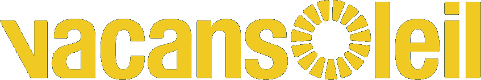
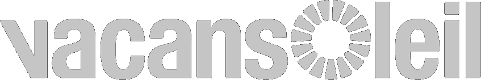
Moved Vacansoleil to silver sponsor

diff --git a/themes/pygrunn/templates/sponsors.html b/themes/pygrunn/templates/sponsors.html
@@ -1,15 +1,10 @@
 <div id="fullscreen" class="fullscreen" style="background-image: url('/theme/images/logos/top_artwork_{{ PYGRUNN_YEAR }}.png'); background-position: 100% 80px;">
     <div class="sponsor-images uk-hidden-small">
         <div class="uk-container uk-container-center">
-            <div class="uk-grid uk-grid-small uk-grid-width-1-3 uk-grid-width-medium-1-3 uk-text-center">
+            <div class="uk-grid uk-grid-small uk-grid-width-1-4 uk-grid-width-medium-1-4 uk-text-center">
                 <div>
                     <a class="media2b-logo sponsor-img uk-display-inline-block uk-vertical-align-middle text-hidden" href="http://www.media2b.net" title="Media2B - Software" target="_blank">
                         <span>Media2B</span>
-                    </a>
-                </div>
-                <div>
-                    <a class="vacansoleil-logo sponsor-img uk-display-inline-block uk-vertical-align-middle text-hidden" href="http://www.vacansoleil.nl" target="_blank">
-                        <span>Vacansoleil</span>
                     </a>
                 </div>
                 <div>
@@ -17,8 +12,6 @@
                         <span>Hugo</span>
                     </a>
                 </div>
-            </div>
-            <div class="uk-grid uk-grid-small uk-grid-width-1-2 uk-grid-width-medium-1-2 uk-text-center">
                 <div>
                     <a class="paylogic-logo sponsor-img uk-display-inline-block uk-vertical-align-middle text-hidden" href="http://www.paylogic.com" target="_blank">
                         <span>Paylogic</span>
@@ -30,7 +23,7 @@
                     </a>
                 </div>
             </div>
-            <div class="uk-grid uk-grid-small uk-grid-width-1-3 uk-grid-width-medium-1-3 uk-text-center">
+            <div class="uk-grid uk-grid-small uk-grid-width-1-4 uk-grid-width-medium-1-4 uk-text-center">
                 <div>
                     <a class="voys-logo sponsor-img uk-display-inline-block uk-vertical-align-middle text-hidden" href="http://www.voys.nl/" target="_blank">
                         <span >Voys</span>
@@ -39,6 +32,11 @@
                 <div>
                     <a class="crop-r-logo sponsor-img uk-display-inline-block uk-vertical-align-middle text-hidden" href="http://www.crop-r.com/" target="_blank">
                         <span>Crop-R</span>
+                    </a>
+                </div>
+                <div>
+                    <a class="vacansoleil-logo sponsor-img uk-display-inline-block uk-vertical-align-middle text-hidden" href="http://www.vacansoleil.nl" target="_blank">
+                        <span>Vacansoleil</span>
                     </a>
                 </div>
                 <div>

diff --git a/themes/pygrunn/templates/about.html b/themes/pygrunn/templates/about.html
@@ -15,14 +15,8 @@
             <p>At PyGrunn, we don't believe in the need for a formal code of conduct, as there should be no need to codify good behaviour. We expect everyone to behave with common decency and we expect that everyone is treated with equal respect. PyGrunn staff will take any measures necessary to uphold these golden rules of life.</p>
             <h2>Sponsors</h2>
             <h3>Kryptonite</h3>
-            <div>
-                <a class="vacansoleil-logo sponsor-img uk-display-inline-block uk-vertical-align-middle text-hidden" href="http://www.vacansoleil.nl" target="_blank">
-                    <span>Vacansoleil</span>
-                </a>
-                <p>
+            <p>Your company could be here!</p>
 
-                </p>
-            </div>
             <h3>Gold</h3>
             <div>
                 <a class="media2b-logo sponsor-img uk-display-inline-block uk-vertical-align-middle text-hidden" href="http://www.media2b.net" title="Media2B - Software" target="_blank">
@@ -99,6 +93,11 @@
                 <div>
                     <a class="zupr-logo sponsor-img uk-display-inline-block uk-vertical-align-middle text-hidden" href="http://www.zupr.nl/" target="_blank">
                         <span >Zupr</span>
+                    </a>
+                </div>
+                <div>
+                    <a class="vacansoleil-logo sponsor-img uk-display-inline-block uk-vertical-align-middle text-hidden" href="http://www.vacansoleil.nl/" target="_blank">
+                        <span >Vacansoleil</span>
                     </a>
                 </div>
                 <div>
